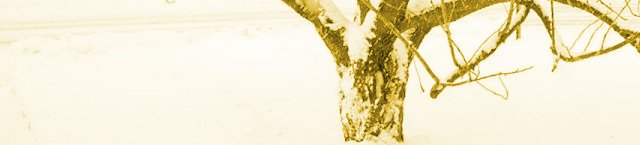
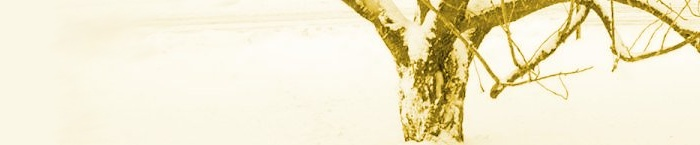
Widen layout, automatic season changes

Changed region(s): [[0.4375, 0.0, 1.0, 1.0], [0.25, 0.0, 0.2812, 0.0276], [0.0, 0.2759, 0.0312, 0.3034]]

diff --git a/src/styles/main.css b/src/styles/main.css
@@ -9,25 +9,40 @@ html {
 
 body {
     margin: 20px auto 0 auto;
-    width: min(68em, 100vw);
+    width: min(70em, 100vw);
 }
+
+/******************************************************************************
+ * Season styles
+ *****************************************************************************/
+
+/* Default is early spring */
+header { background: #5E97CC url(/graphics/head-earlyspring.jpg) no-repeat right center; }
+/* ensures logo is readable even if screen is squished */
+header h1 { background-color: #5E97CC; }
+nav { background-color: #F6F4EC; }
+
+body.spring header { background: #4f7ea8 url(/graphics/head-spring.jpg) no-repeat right center; }
+body.spring header h1 { background-color: #4f7ea8; }
+body.spring nav { background-color: #F6F4EC; }
+
+/* TODO: summer */
+
+/* TODO: fall */
+
+body.winter header { background: #faf7e6 url(/graphics/head-winter.jpg) no-repeat right center; }
+body.winter header h1 { background-color: #faf7e6; }
+body.winter nav { background-color: #EBEFF5; }
 
 /******************************************************************************
  * Heading styles
  *****************************************************************************/
 header {
-    /* for winter: head-winter.jpg, #FFC700
-     * for early spring: head-earlyspring.jpg, #5E97CC
-     * for spring: head-spring.jpg, #5887B1
-     */
-    background: #5E97CC url(/graphics/head-earlyspring.jpg) no-repeat right center;
     border: 1px solid #333;
     padding: 25px;
 }
 
 header h1 {
-    /* ensures logo is readable even if screen is squished */
-    background-color: #5E97CC;
     /* default font size will make the h1 too tall and push the h2 quote away */
     font-size: 0%;
     /* but we do want at least a small gap to the h2 quote */
@@ -36,15 +51,11 @@ header h1 {
     width: 230px;
 }
 
-header h1 img#icon {
-    /* push the icon up to align more with the logo test baseline */
-    margin-bottom: 5px;
-}
+/* push the icon up to align more with the logo test baseline */
+header h1 img#icon { margin-bottom: 5px; }
 
-header h1 img#logo {
-    /* space logo away from icon */
-    margin-left: 10px;
-}
+/* space logo away from icon */
+header h1 img#logo { margin-left: 10px; }
 
 header h1 span {
     /* this mess hides the text without removing it from the document, so hopefully it is there for text and readers */
@@ -63,12 +74,11 @@ header h2 {
     font-size: medium;
     font-weight: normal;
     margin: 0;
+    width: fit-content;
 }
 
-button#menuToggle {
-    /* only used for mobile */
-    display: none;
-}
+/* only used for mobile */
+button#menuToggle { display: none; }
 
 div#line {
     background: #FFC700;
@@ -82,10 +92,6 @@ div#line {
  * Sidebar styles
  *****************************************************************************/
 nav {
-    /* for winter: #EBEFF5
-     * for early spring, spring: #F6F4EC
-     */
-    background-color: #F6F4EC;
     border-color: #333;
     border-style: solid;
     border-width: 0 1px 1px 1px;
@@ -101,9 +107,7 @@ nav h3 {
     padding-top: 10px;
 }
 
-nav ul#mainmenu {
-    font-size: 120%;
-}
+nav ul#mainmenu { font-size: 120%; }
 
 nav ul {
     list-style: none;
@@ -137,7 +141,7 @@ main {
     float: left;
     line-height: 150%;
     margin-bottom: 1em;
-    width: 45em;
+    width: 47em;
 }
 
 main h1 { line-height: 110%; }
@@ -174,14 +178,12 @@ figure img {
     box-shadow: 5px 5px 5px #999;
 }
 figure.clean img {
-    border: 0;
+    border: 0 !important;
     box-shadow: 0 0 0;
 }
 
-figure + figure {
-    /* additional spacing between pictures helps clarify which one the caption belongs to */
-    margin-top: 25px;
-}
+/* additional spacing between pictures helps clarify which one the caption belongs to */
+figure + figure { margin-top: 25px; }
 
 figure a:link img { border: 2px solid #1C298C; }
 figure a:visited img { border: 2px solid #8D1B20; }

diff --git a/src/scripts/script.js b/src/scripts/script.js
@@ -28,6 +28,26 @@ for (const heading of headings) {
         `<a class="heading-anchor" href="#${heading.id}" aria-labelledby="${heading.id}">🔗</a>`);
 }
 
+// Set body style to match the time of year
+const month = new Date().getMonth();
+const body = document.getElementsByTagName("body")[0];
+
+if (month === 2 || month === 3) {
+    // March (2), April (3) = early spring (no modifier required)
+} else if (month === 4) {
+    // May (4) = spring
+    body.classList.add("spring");
+} else if (month === 5 || month === 6 || month === 7) {
+    // June (5), July (6), August (7) = summer
+    body.classList.add("summer");
+} else if (month === 8 || month === 9 || month === 10) {
+    // September (8), October (9), November (10) = fall
+    body.classList.add("fall");
+} else if (month === 11 || month === 0 || month === 1) {
+    // December (11), January (0), February (1) = winter
+    body.classList.add("winter");
+}
+
 // Support main menu toggle on mobile
 function toggleNav() {
     const nav = document.querySelector("nav");

diff --git a/src/_includes/header.html b/src/_includes/header.html
@@ -10,7 +10,7 @@
     {% feed_meta %}
     <link rel="stylesheet" type="text/css" media="screen" href="{% link styles/main.css %}">
     <link rel="stylesheet" type="text/css" media="screen" href="{% link styles/highlight.css %}">
-    <link rel="stylesheet" type="text/css" media="only screen and (max-width: 65em)" href="{% link styles/mobile.css %}">
+    <link rel="stylesheet" type="text/css" media="only screen and (max-width: 70em)" href="{% link styles/mobile.css %}">
     <link rel="preload" as="image" href="{% link graphics/extern.gif %}">
     <link rel="preload" as="image" href="{% link graphics/extern-over.gif %}" media="only screen and (min-width: 701px)">
     <script src="{% link scripts/randomizer.js %}" defer></script>

diff --git a/src/styles/mobile.css b/src/styles/mobile.css
@@ -7,10 +7,12 @@ body {
     width: auto;
 }
 
-header h2 {
-    /* ensure text is visible */
-    background-color: #5E97CC;
-}
+/* ensure text is visible */
+header h2 { background-color: #5E97CC; }
+body.spring header h2 { background-color: #4f7ea8; }
+/* TODO: summer */
+/* TODO: fall */
+body.winter header h2 { background-color: #faf7e6; }
 
 button#menuToggle {
     display: block;
